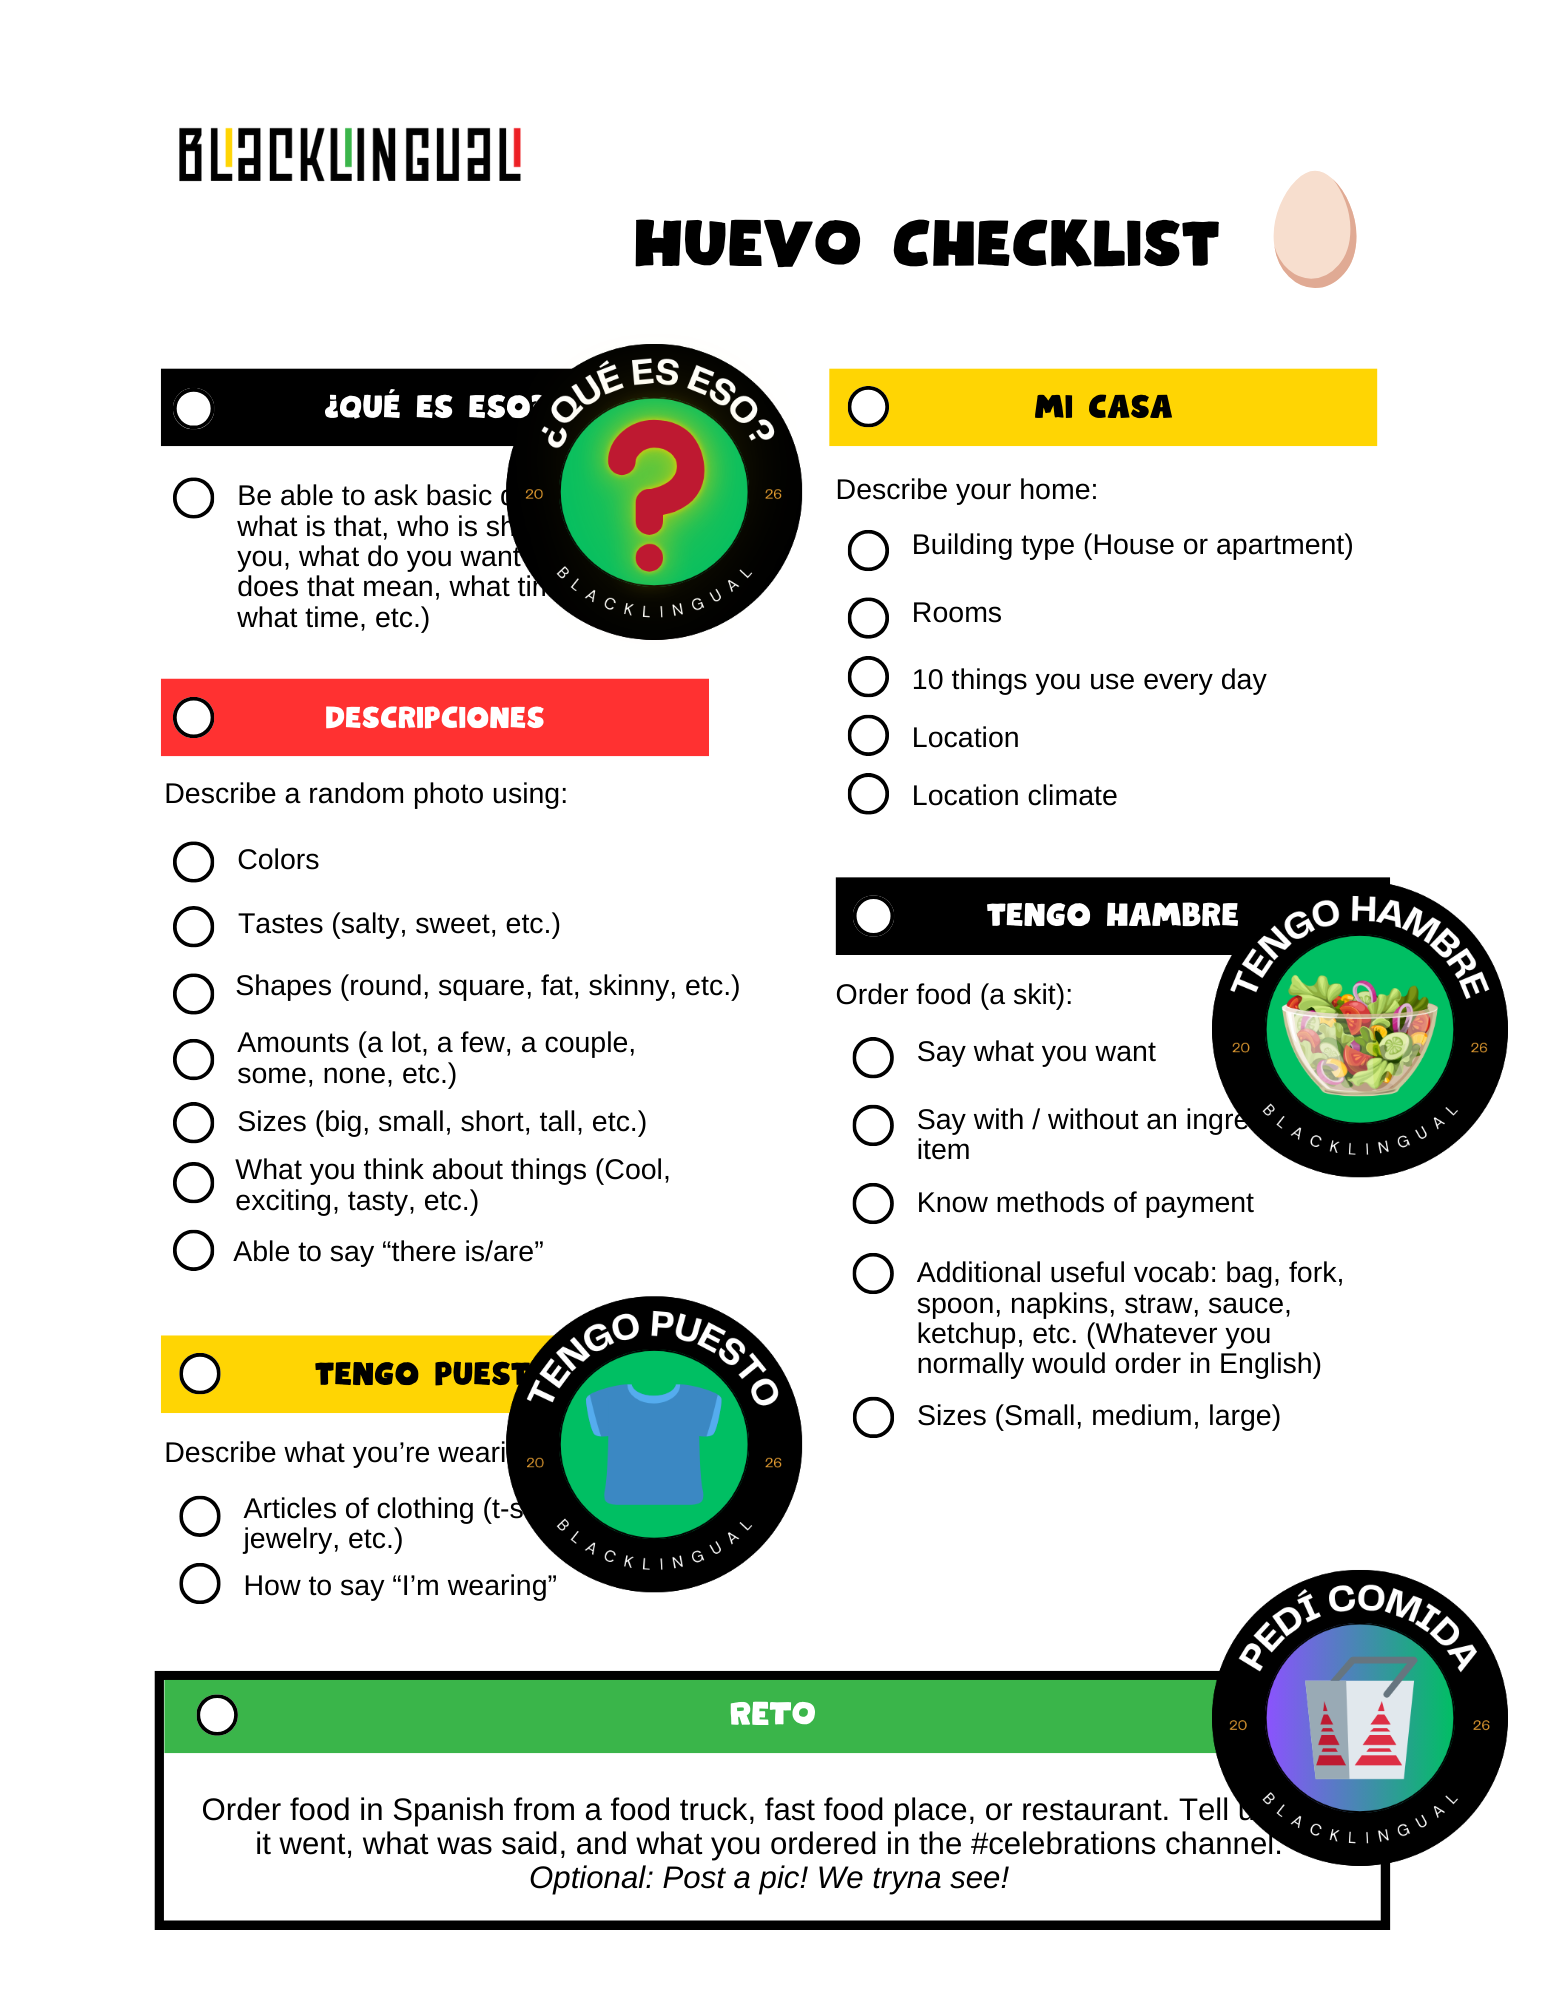
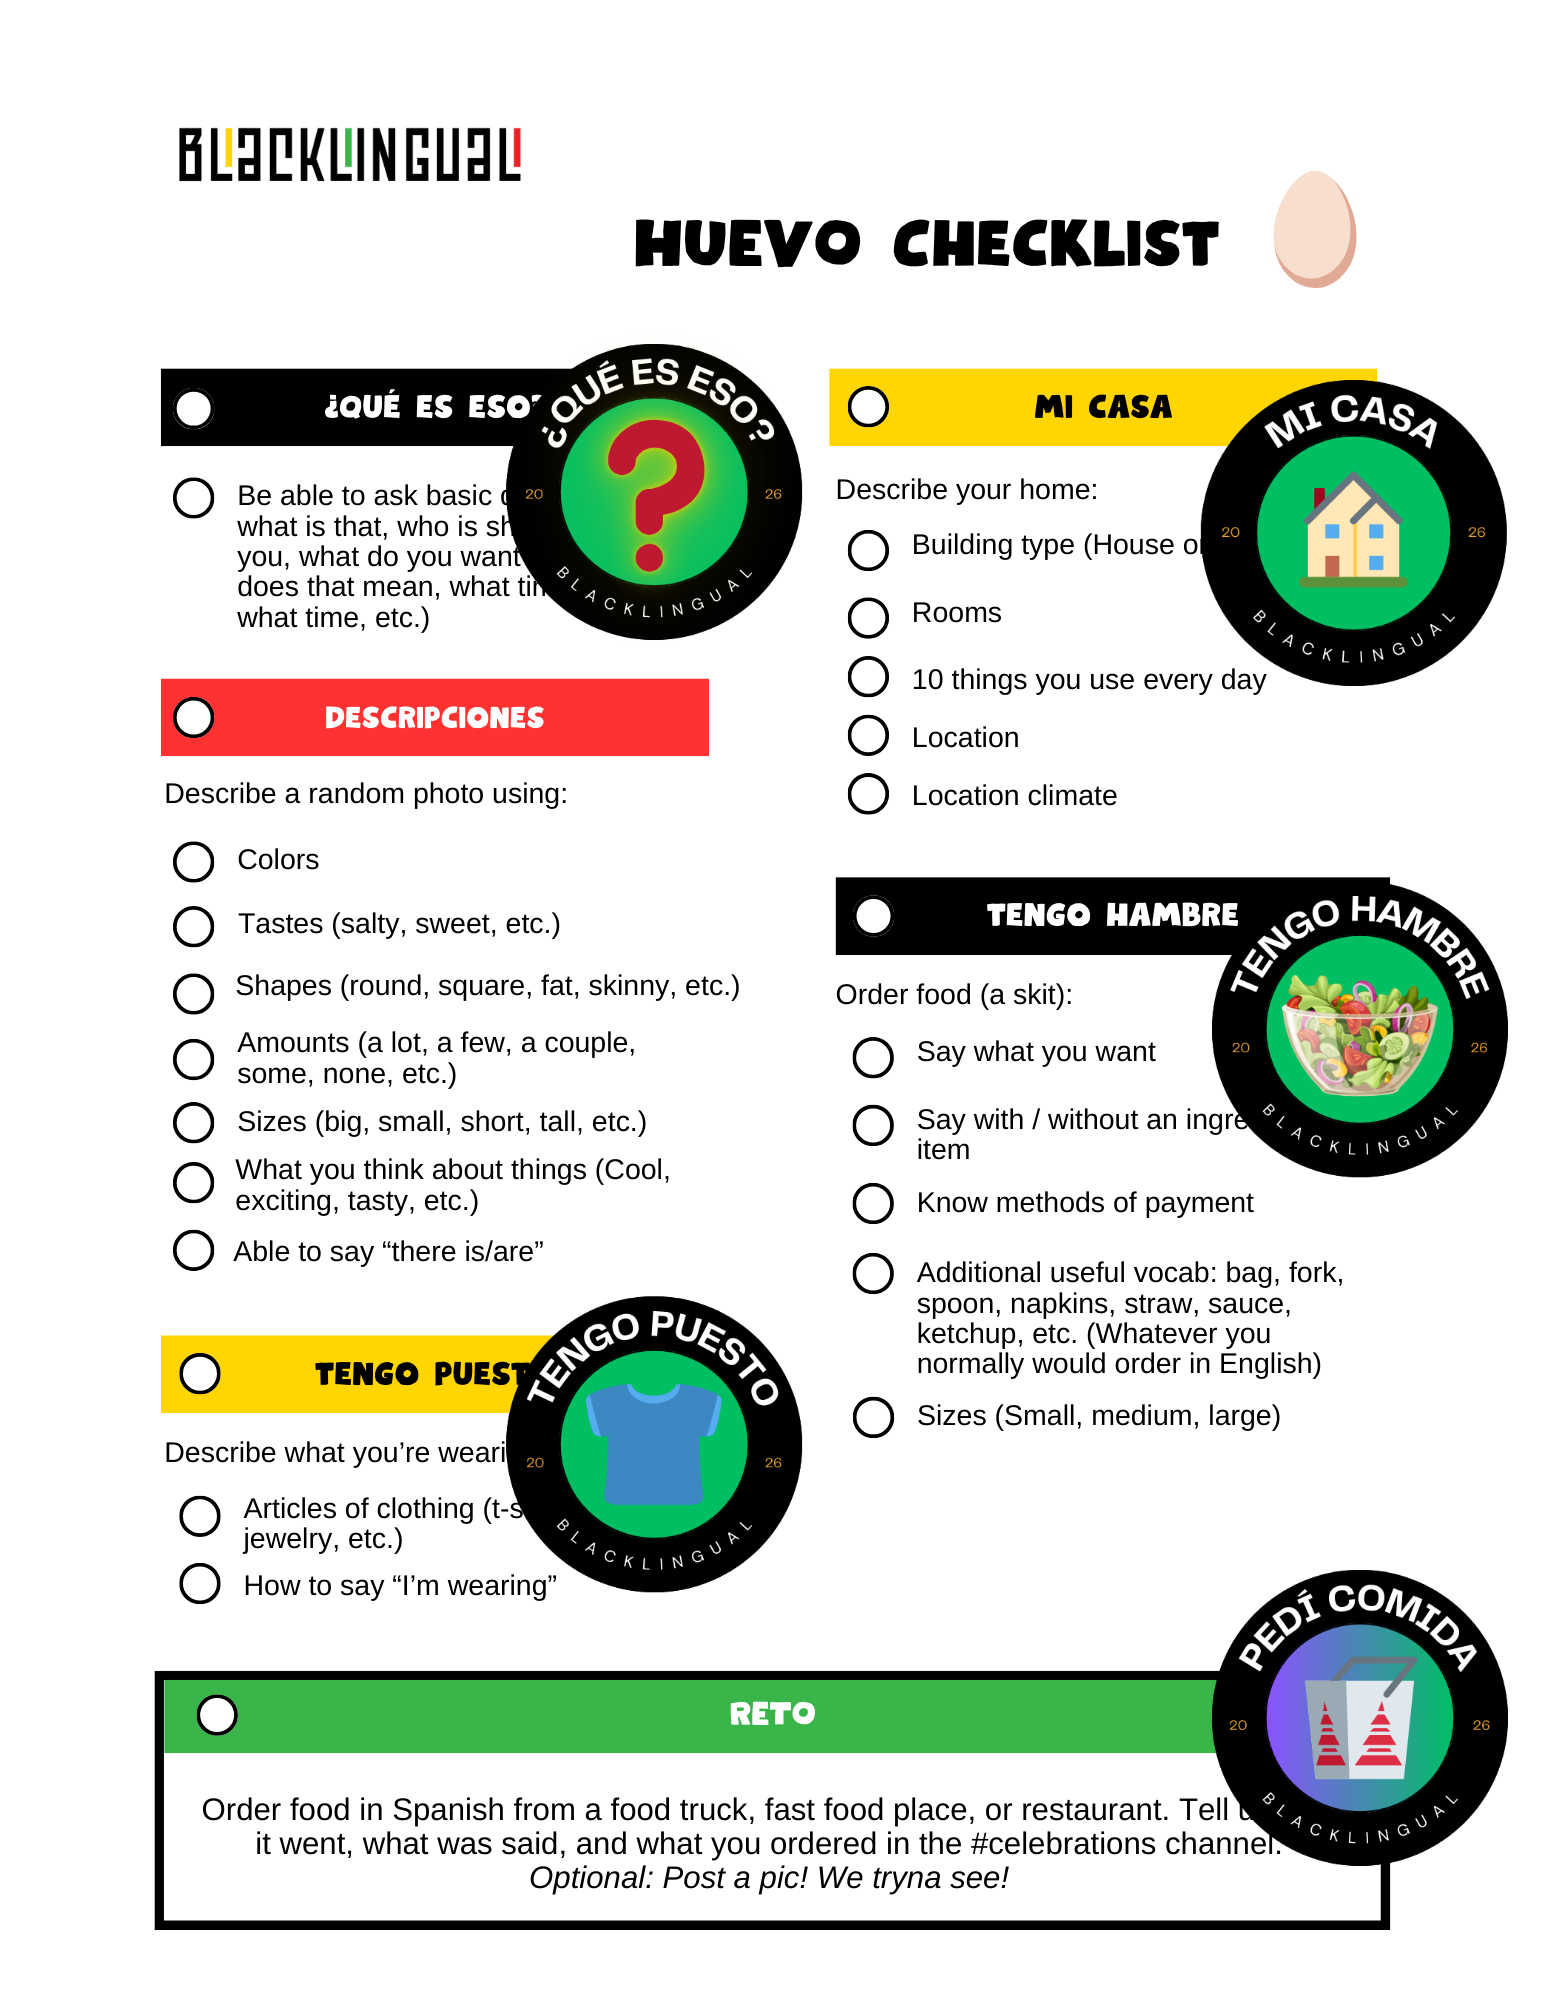
Refactor code structure for improved readability and maintainability

Changed region(s): [[0.7767, 0.1861, 0.9942, 0.3412]]

diff --git a/spanish-mastery/progress.md b/spanish-mastery/progress.md
@@ -5,6 +5,8 @@ Updated: 2026-11-09 (America/New_York).
 ## Current priority
 S002 Mi Casa practice completed 2026-11-09; no exercise pending. Learner is working toward Huevo. All five official areas addressed across tasks, but no single fully accurate independent integrated rehearsal or observed speaking assessment. No badge awarded here.
 
+Mi Casa challenge EARNED: learner reported badge addition 2026-11-09; inspected 2._Huevo_Describe_your_house_badge.png confirms MI CASA award artifact (EXT-20261109-002). Debrief EXT-20261109-003: challenge went well, learner felt practice helped, reports pronunciation trouble with entre/microondas and agreement slips, including el segundo pantalla, with self-correction toward la segunda pantalla. Raw written pentalla/micoondas preserved; do not infer actual sounds from spelling. No audio or specific evaluator feedback. Next confirm chosen objective, with pronunciation and compact noun-group agreement available as short review priorities. Retention checks remain 2026-11-16 and 2026-12-09. No Huevo completion, automaticity or durable-mastery claim.
+
 Next session: ask available time, then collect a short home tour before displaying examples. Include home type, rooms, ten daily-use objects, general location and usual climate. Prioritize noun/article consistency and new-vocabulary recall with minimal interruption. Review targets: 2026-11-16 and 2026-12-09, relative to dated S002 practice, not assumed S001 response dates. Reviews happen when learner returns; no reminders running.
 
 S002 evidence: successful same-session inodoro recall; correct immediate habitual/current rain distinction; puertas blancas / sofás blancos correct with deliberate check; supported un clima correct after -a heuristic clarification. Final targeted microondas, lavaplatos and mesa de centro correct; una nevera still inconsistent. Longer retention and automaticity unassessed. Prior estaban/estuvieron uncertainty remains a later learning priority.
@@ -28,7 +30,7 @@ Learner reflection after S002 (S002-R021): wants to slow down rather than use fi
 5. Use concrete scenes for estaban/estuvieron when that becomes selected objective; earlier explanation did not establish clarity.
 
 ## Outstanding questions
-- Next challenge meeting date and any community feedback?
+- Debrief recorded: overall went well and practice felt helpful; pronunciation and agreement remain priorities. Exact pronunciation issue and any evaluator-specific feedback unknown. Next chosen challenge/meeting date unknown.
 - Any outside assistance used during samples? Absence of report is not verified absence.
 - Real or invented layout: first sample three bedrooms, integrated tour two; clarify only if relevant, not a grammatical error.
 - Wider article/adjective difficulty: word-specific knowledge versus retrieval versus heuristic effects needs more evidence. -a heuristic supported specifically for clima.
@@ -52,7 +54,7 @@ Checklist images inspected directly: Nido/Nido_Checklist_Progress.png; Huevo/Hue
 | Huevo | Tengo hambre — food-ordering skit | 2._Huevo_Order_food_badge.png | Not assessed against full rubric |
 | Huevo | Reto — order food in real life and report experience in community celebrations channel | 2._Huevo_Order_food_challenge_badge.png | Outside award artifact; speech not observed here |
 | Huevo | Descripciones — describe random photo: colors, tastes, shapes, amounts, sizes, opinions, there is/are | No matching earned badge found | Candidate preparation priority; completion unknown |
-| Huevo | Mi casa — building type, rooms, ten everyday objects, location and local climate | No matching earned badge found | Selected target; S002 written preparation complete, official outcome unknown |
+| Huevo | Mi casa — building type, rooms, ten everyday objects, location and local climate | 2._Huevo_Describe_your_house_badge.png; inspected, learner report 2026-11-09 | Community challenge earned; retention/automaticity not assessed by artifact |
 
 Badge paths above are under The Spanish Challenge Community x Blacklingual/Badges/. This is an artifact inventory interpreted using learner's statement that these are earned badges; no award dates or assessment scores inferred. No Huevo level-completion badge found; learner confirms working toward Huevo, with Mi Casa selected.
 
@@ -63,7 +65,7 @@ Available preparation sources (Housing PDF text reviewed for S002; other documen
 
 Bonus tracking: Bonus Challenge Badges/Bonus_Use_Spanish_in_a_taxi_or_uber_badge.png is an earned-artifact candidate consistent with the learner's explanation and the overlaid taxi badge in checklist 1. Two bonus checklist images list possible side quests; their other listings do not establish completion. Bonus awards remain separate from rank requirements. Exact award date unknown.
 
-Suggested first preparation options: Mi casa (connects location, everyday noun/article pairs and descriptions) or Descripciones (connects vocabulary precision, agreement, quantity and existence). Let learner confirm next challenge; do not assume lack of ability from absent badge. Read matching source PDF before building rehearsal. Use new contexts and assess full checklist coverage across manageable activities; distinguish written rehearsal from official spoken meeting performance.
+Mi Casa is now earned. Descripciones remains a possible next Huevo preparation goal without a matching local badge; let learner confirm next challenge and do not infer inability from missing artifact. Read matching source PDF before rehearsal. Continue Mi Casa in occasional unfamiliar contexts for retention; distinguish written rehearsal, community award and directly observed performance.
 
 ### iTalki
 Four image files present (one screenshot and three WhatsApp images dated in filenames in November 2024). Contents not reviewed; no teacher feedback or learning outcome inferred. Consult selected notes when learner wants to practice them and preserve provenance.

diff --git a/spanish-mastery/sessions.md b/spanish-mastery/sessions.md
@@ -1,5 +1,11 @@
 # Session history
 
+## Mi Casa challenge debrief — 2026-11-09
+EXT-20261109-003 records learner report: overall went well, practice helped substantially, pronunciation slips with entre and microondas, and article/gender slips such as reported el segundo pentalla. Learner identified intended feminine correction; tutor supplies standard spelling la segunda pantalla. No audio or evaluator quote; do not equate typed misspellings with pronunciation or claim a measured fluency/causal improvement. Future short work: EN-tre / mi-cro-ON-das stress guides, assess actual sounds only with appropriate evidence, and meaningful noun-group agreement (la segunda pantalla / el segundo monitor). Badge remains earned; delayed checks November 16 / December 9 unchanged. No new exercise pending.
+
+## Mi Casa community achievement — reported 2026-11-09
+Learner announced intent to attempt Mi Casa today, then reported adding the badge. Inspected Badges/2._Huevo_Describe_your_house_badge.png: MI CASA house award, BLACKLINGUAL, 2026. EXT-20261109-002 records learner report plus artifact provenance. Mi Casa challenge marked earned; no direct observation of meeting performance or specific evaluator feedback. Huevo rank completion, durable mastery and automaticity not inferred. Keep November 16 / December 9 retention reviews. Next ask brief debrief and confirm next goal; no new exercise or failed/pending assessment created.
+
 ## S002 — 2026-11-09 — Mi Casa preparation
 Status: open; learner selects Mi Casa to work toward Huevo (S002-R000). Learner reports one hour from 10:50 a.m., planned end 11:50 a.m. local; do not assume independently measured time. Next challenge meeting unknown. MC001 housing sample saved as S002-R001.
 

diff --git a/spanish-mastery/learner-profile.md b/spanish-mastery/learner-profile.md
@@ -19,3 +19,4 @@ Initial spontaneous writing sample recorded in S001 (S001-R001). No level or mas
 - Especially wants practice based on The Spanish Challenge Community materials.
 - Community ranks increase: nuevo miembro, nido, huevo, polluelo, pajarito, cuervo. Requirements inside a named level folder are challenges to reach that level. Challenges are passed at challenge meetings; earned badges go in Badges. Side quests offer separate bonus badges.
 - On 2026-11-09, learner confirms working toward Huevo and selects Mi Casa as next badge preparation target. Next meeting date unknown. Uploaded artifacts are summarized in progress.md; do not treat them as our direct speaking assessments.
+- Mi Casa earned: learner reported badge addition on 2026-11-09; image inspected and achievement logged as EXT-20261109-002. Next learning objective and evaluator feedback not yet supplied. Huevo level completion not claimed.
